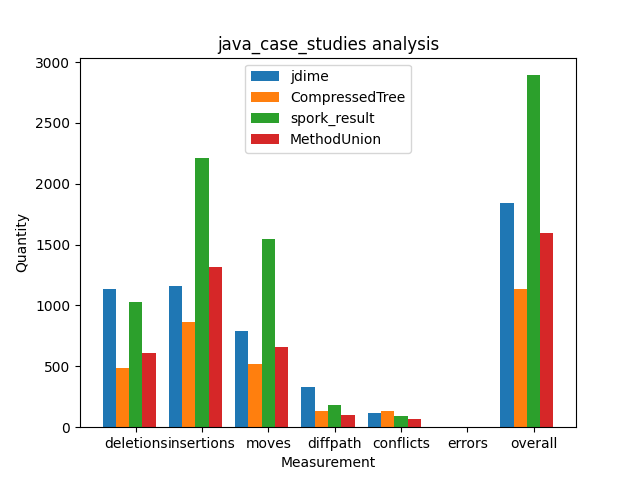
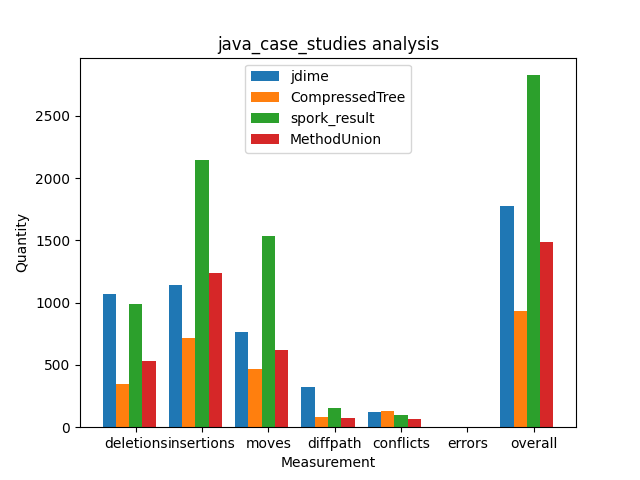
fix: Modified run_algo to more accurately compare desired version
Ignoring git conflicts in tool generated output more accurately.

diff --git a/demos/scripts/run_algo.py b/demos/scripts/run_algo.py
@@ -196,7 +196,7 @@ def run_gumtree_existing(reference_path,tool):
     gumtree_path=reference_path.split("java_case_studies")[0]+'dependencies/gumtree.jar'
 
     desired=reference_path+"/desired.java"
-    desired_text=subprocess.run(['cat',desired+'.java'],capture_output=True,text=True).stdout
+    desired_text=subprocess.run(['cat',desired],capture_output=True,text=True).stdout
 
     result=reference_path+"/"+tool+".java"
     new="java_case_studies/demo_results/"+tool+".csv"
@@ -216,15 +216,13 @@ def run_gumtree_existing(reference_path,tool):
                 incoming_sim=0
                 current_text=[]
                 incoming_text=[]
-                continue
-            elif (start and not divider):
+            elif (start and (not divider)):
                 if ("=======" in line):
                     divider=True
                 else:
                     if line in desired_text:
                         current_sim+=1
                     current_text.append(line)
-                continue
             elif (start and divider):
                 if (">>>>>>>" in line):
                     start=False
@@ -239,7 +237,6 @@ def run_gumtree_existing(reference_path,tool):
                     if line in desired_text:
                         incoming_sim+=1
                     incoming_text.append(line)
-                continue
             elif (not start and not divider):
                 writer.write(line+'\n')
 
@@ -260,13 +257,14 @@ def run_gumtree_existing(reference_path,tool):
 
 # Compares inputted algorithm version to desired version. 
 def run_gumtree_algo(reference_path,output_path,lang,algo):
+    print("ALGOOO")
     if ('java_case_studies' in reference_path):
         gumtree_path=reference_path.split("java_case_studies")[0]+'dependencies/gumtree.jar'
     else:
         gumtree_path=reference_path.split("python_case_studies")[0]+'dependencies/gumtree.jar'
 
     desired=reference_path+"/desired."+lang
-    desired_text=subprocess.run(['cat',desired+'.'+lang],capture_output=True,text=True).stdout
+    desired_text=subprocess.run(['cat',desired],capture_output=True,text=True).stdout
     result=output_path
     without_git=subprocess.run(['cat',result+'.'+lang],capture_output=True, text=True)
     new_result='without_git.'+lang
@@ -283,7 +281,6 @@ def run_gumtree_algo(reference_path,output_path,lang,algo):
                 incoming_sim=0
                 current_text=[]
                 incoming_text=[]
-                continue
             elif (start and not divider):
                 if ("=======" in line):
                     divider=True
@@ -291,11 +288,12 @@ def run_gumtree_algo(reference_path,output_path,lang,algo):
                     if line in desired_text:
                         current_sim+=1
                     current_text.append(line)
-                continue
             elif (start and divider):
                 if (">>>>>>>" in line):
                     start=False
                     divider=False
+                    print(current_sim)
+                    print(incoming_sim)
                     if (current_sim>incoming_sim):
                         for val in current_text:
                             writer.write(val+'\n')
@@ -306,7 +304,6 @@ def run_gumtree_algo(reference_path,output_path,lang,algo):
                     if line in desired_text:
                         incoming_sim+=1
                     incoming_text.append(line)
-                continue
             elif (not start and not divider):
                 writer.write(line+'\n')
     

diff --git a/demos/java_case_studies/demo_results/MethodUnion/aws-conflict1.java b/demos/java_case_studies/demo_results/MethodUnion/aws-conflict1.java
@@ -32,6 +32,7 @@ import com.amazonaws.util.StringUtils;
 
 public class DynamoDBSessionManager extends PersistentManagerBase{
 
+    private static final String DEFAULT_TABLE_NAME = "Tomcat_SessionState";,
     private static final String name = "AmazonDynamoDBSessionManager";,
     private static final String info = name + "/2.0";,
     private String regionId = "us-east-1";,
@@ -42,7 +43,6 @@ public class DynamoDBSessionManager extends PersistentManagerBase{
     private long readCapacityUnits = 10;,
     private long writeCapacityUnits = 5;,
     private boolean createIfNotExist = true;,
-    private String tableName = DEFAULT_TABLE_NAME;,
     private String proxyHost;,
     private Integer proxyPort;,
     private final DynamoDBSessionStore dynamoSessionStore;,

diff --git a/demos/python_case_studies/demo_results/MethodUnion/errbot-conflict7.py b/demos/python_case_studies/demo_results/MethodUnion/errbot-conflict7.py
@@ -156,21 +156,7 @@ class TestMUCRoom(MUCRoom):
         self._bot._rooms.remove(self)
         log.info('Destroyed room {!s}'.format(self))
     
-    @topic.setter
-    def topic(self, topic):
-        self._topic = topic
-        room = self.find_croom()
-        room._topic = self._topic
-        log.info("Topic for room {!s} set to '{}'".format(self, topic))
-        self._bot.callback_room_topic(self)
     
-    @topic.setter
-    def topic(self, topic):
-        self._topic = topic
-        room = self.find_croom()
-        room._topic = self._topic
-        log.info("Topic for room {!s} set to '{}'".format(self, topic))
-        self._bot.callback_room_topic(self)
     
     def __unicode__(self):
         return self._name

diff --git a/demos/python_case_studies/demo_results/MethodUnion/blaze-importC1a.py b/demos/python_case_studies/demo_results/MethodUnion/blaze-importC1a.py
@@ -2,12 +2,12 @@ import datetime
 from types import MethodType
 from datashape import dshape
 from datashape.util.testing import assert_dshape_equal
-from odo import append
+from odo import append,into
 from odo.backends.csv import CSV
 from blaze import discover,transform
 from blaze.compatibility import pickle
 from blaze.expr import symbol
-from blaze.interactive import Data,compute,concrete_head,expr_repr,to_html,data,iscorescalar,iscoresequence,iscoretype,coerce_core,into
+from blaze.interactive import Data,compute,concrete_head,expr_repr,to_html,data,iscorescalar,iscoresequence,iscoretype,coerce_core
 from blaze.utils import tmpfile,example
 tdata = ('Alice', 100), ('Bob', 200)
 

diff --git a/demos/java_case_studies/demo_results/MethodUnion/openshift-java-client-conflict15.java b/demos/java_case_studies/demo_results/MethodUnion/openshift-java-client-conflict15.java
@@ -19,11 +19,11 @@ import java.io.UnsupportedEncodingException;
 import java.net.MalformedURLException;
 import java.net.SocketTimeoutException;
 import java.net.URL;
+import static com.openshift.client.utils.RequestParametersMatcher.eq;
 import org.mockito.Matchers;
 import static org.fest.assertions.Assertions.assertThat;
 import org.mockito.Mockito;
 import com.openshift.client.IHttpClient;
-import static org.mockito.Matchers.eq;
 import static org.mockito.Matchers.anyMapOf;
 import com.openshift.client.utils.Samples;
 import com.openshift.internal.client.httpclient.HttpClientException;

diff --git a/demos/java_case_studies/demo_results/MethodUnion/openhtmltopdf-importC1.java b/demos/java_case_studies/demo_results/MethodUnion/openhtmltopdf-importC1.java
@@ -101,8 +101,7 @@ public class BlockBox extends Box implements InlinePaintable{
          */
         EMPTY,
 
-    }    
-    protected static final int NO_BASELINE = Integer.MIN_VALUE;,
+    }    protected static final int NO_BASELINE = Integer.MIN_VALUE;,
     private MarkerData _markerData;,
     private int _listCounter;,
     private PersistentBFC _persistentBFC;,

diff --git a/demos/python_case_studies/demo_results/MethodUnion/cryptography-importC1.py b/demos/python_case_studies/demo_results/MethodUnion/cryptography-importC1.py
@@ -19,8 +19,8 @@ from backends.test_multibackend import DummyCMACBackend
 from utils import (
     load_nist_vectors,
     load_vectors_from_file,
+    raises_unsupported_algorithm,
 )
-from tests.utils import raises_unsupported_algorithm
 from cryptography import utils
 vectors_aes128 = load_vectors_from_file('CMAC/nist-800-38b-aes128.txt',
     load_nist_vectors)

diff --git a/demos/java_case_studies/demo_results/CompressedTree/cucumber.jvm-importC6.java b/demos/java_case_studies/demo_results/CompressedTree/cucumber.jvm-importC6.java
@@ -1,6 +1,6 @@
 package io.cucumber.examples.testng;
-import cucumber.api.TypeRegistryConfigurer;
-import cucumber.api.TypeRegistry;
+import io.cucumber.core.api.TypeRegistryConfigurer;
+import io.cucumber.core.api.TypeRegistry;
 import io.cucumber.datatable.DataTableType;
 import io.cucumber.cucumberexpressions.ParameterType;
 import java.text.SimpleDateFormat;

diff --git a/demos/java_case_studies/demo_results/MethodUnion/cucumber.jvm-importC6.java b/demos/java_case_studies/demo_results/MethodUnion/cucumber.jvm-importC6.java
@@ -1,6 +1,6 @@
 package io.cucumber.examples.testng;
-import cucumber.api.TypeRegistryConfigurer;
-import cucumber.api.TypeRegistry;
+import io.cucumber.core.api.TypeRegistryConfigurer;
+import io.cucumber.core.api.TypeRegistry;
 import io.cucumber.datatable.DataTableType;
 import io.cucumber.cucumberexpressions.ParameterType;
 import java.text.SimpleDateFormat;
